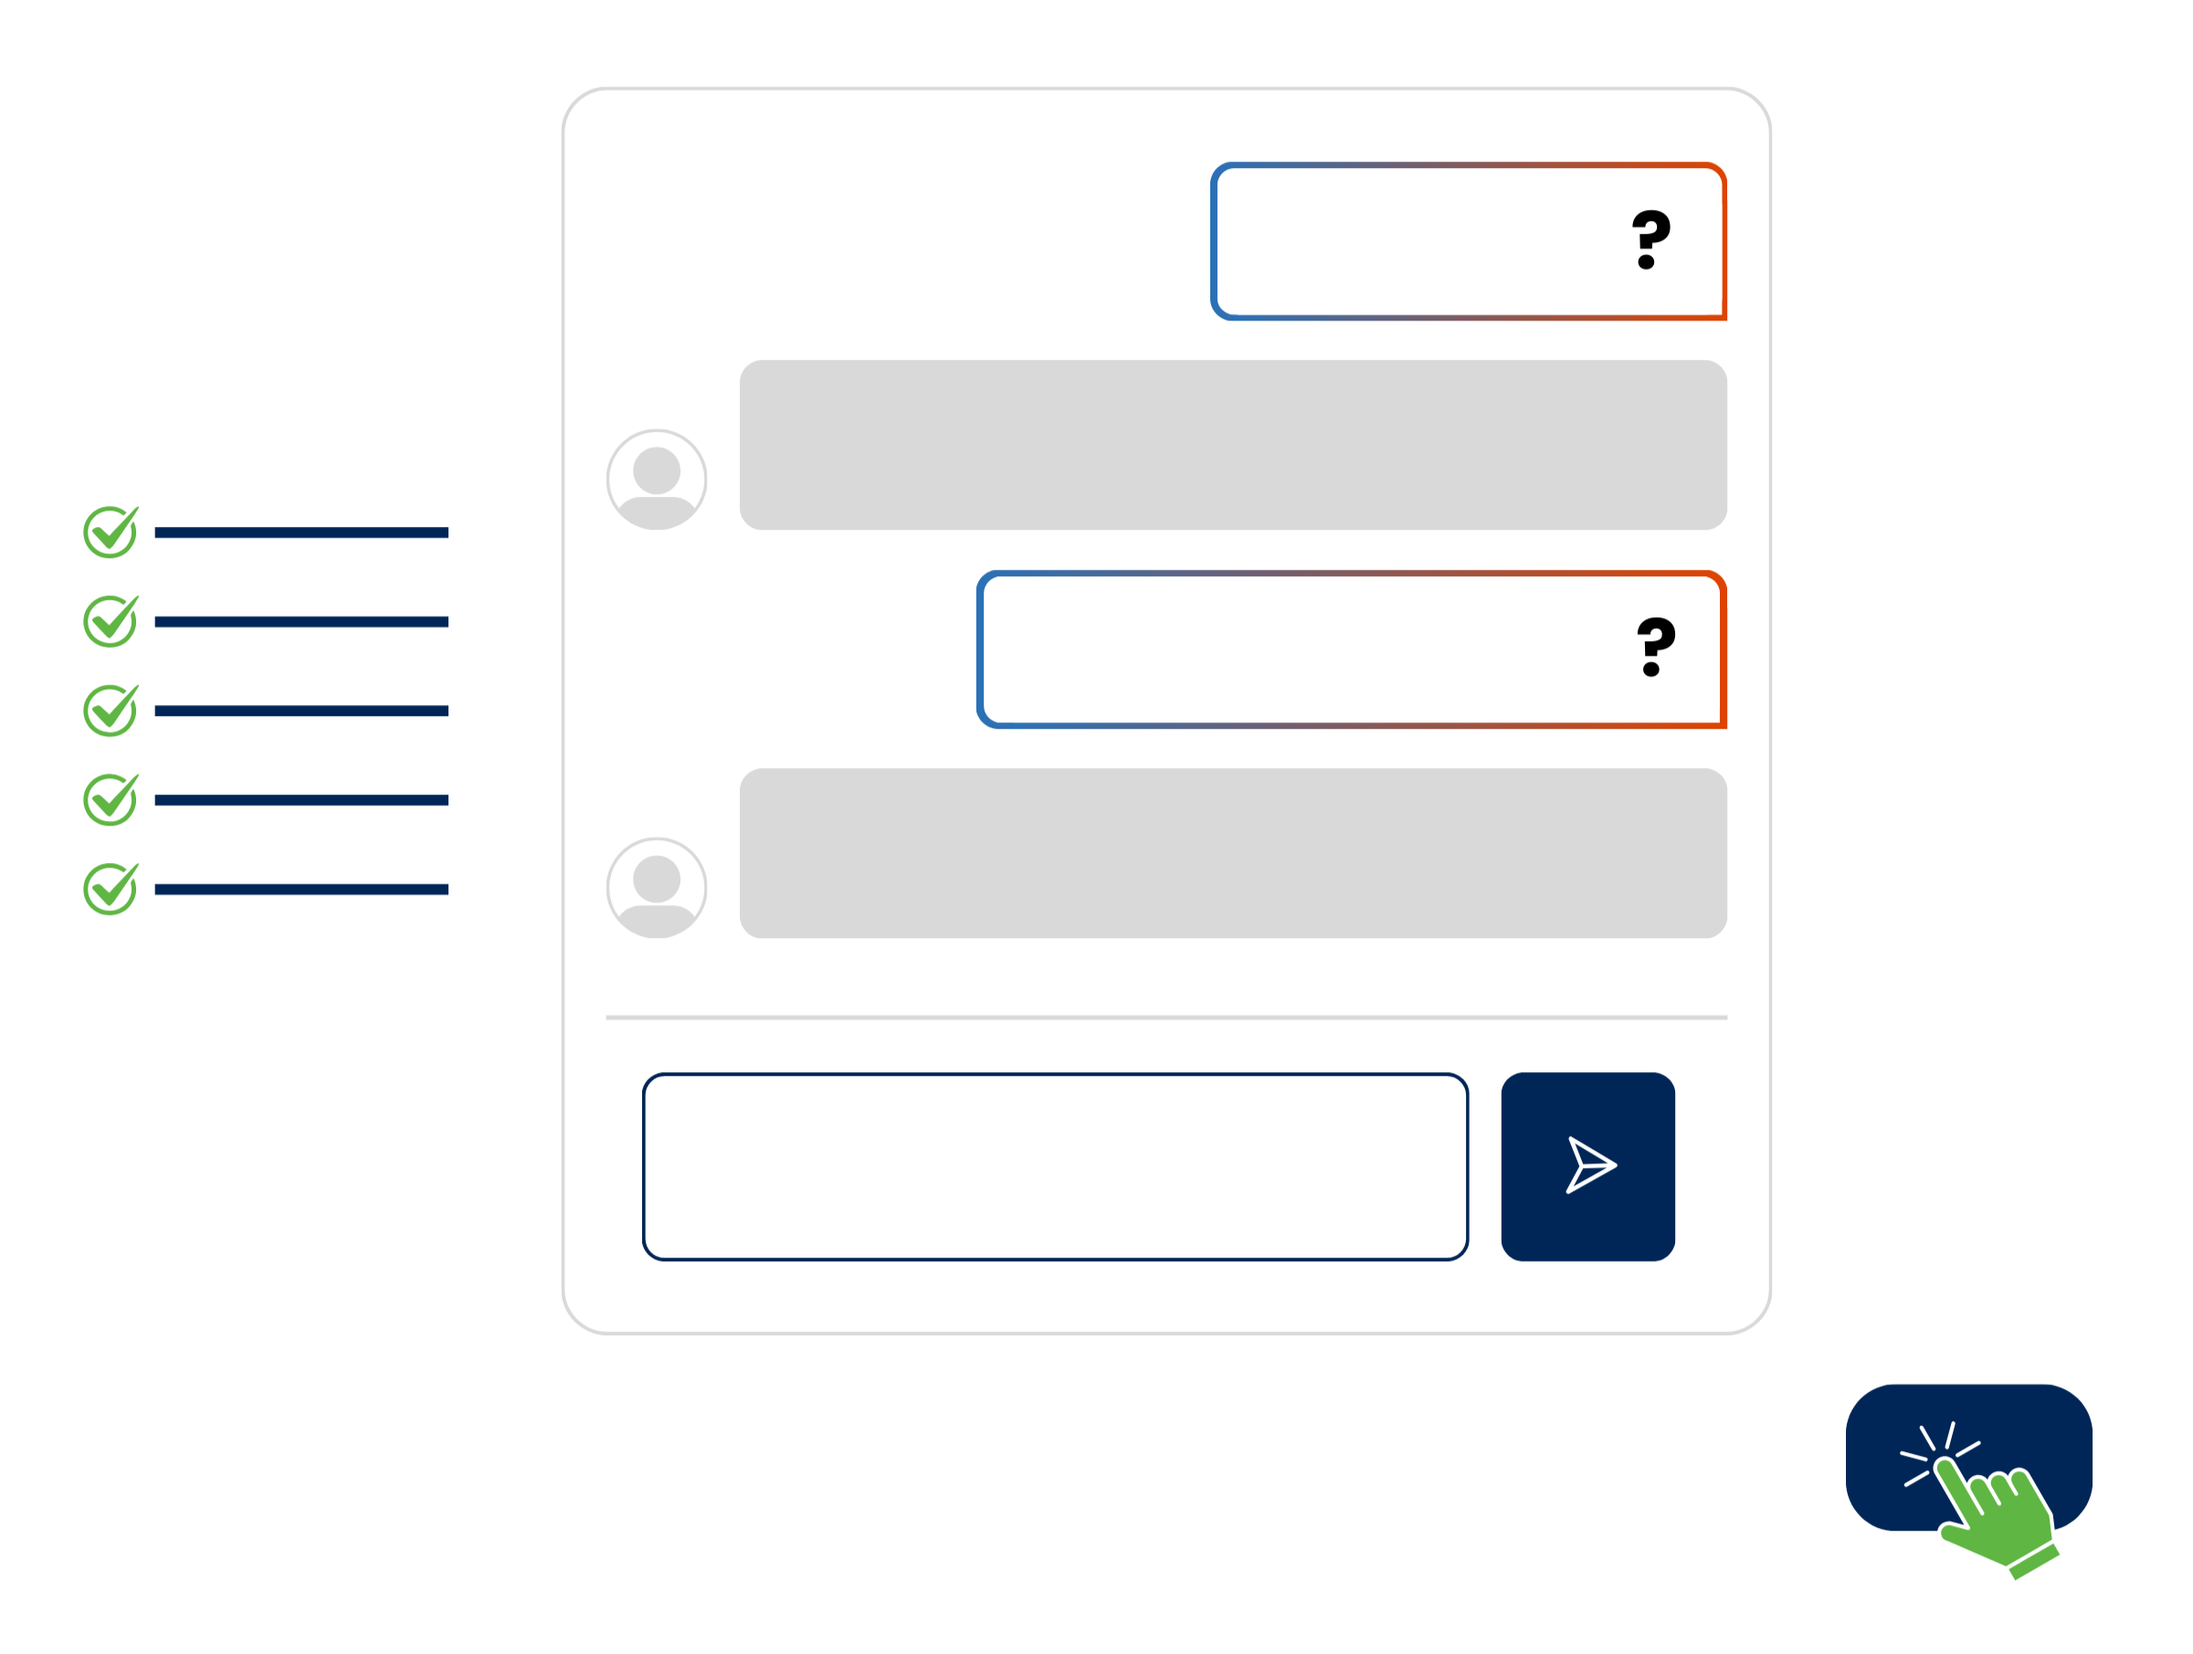
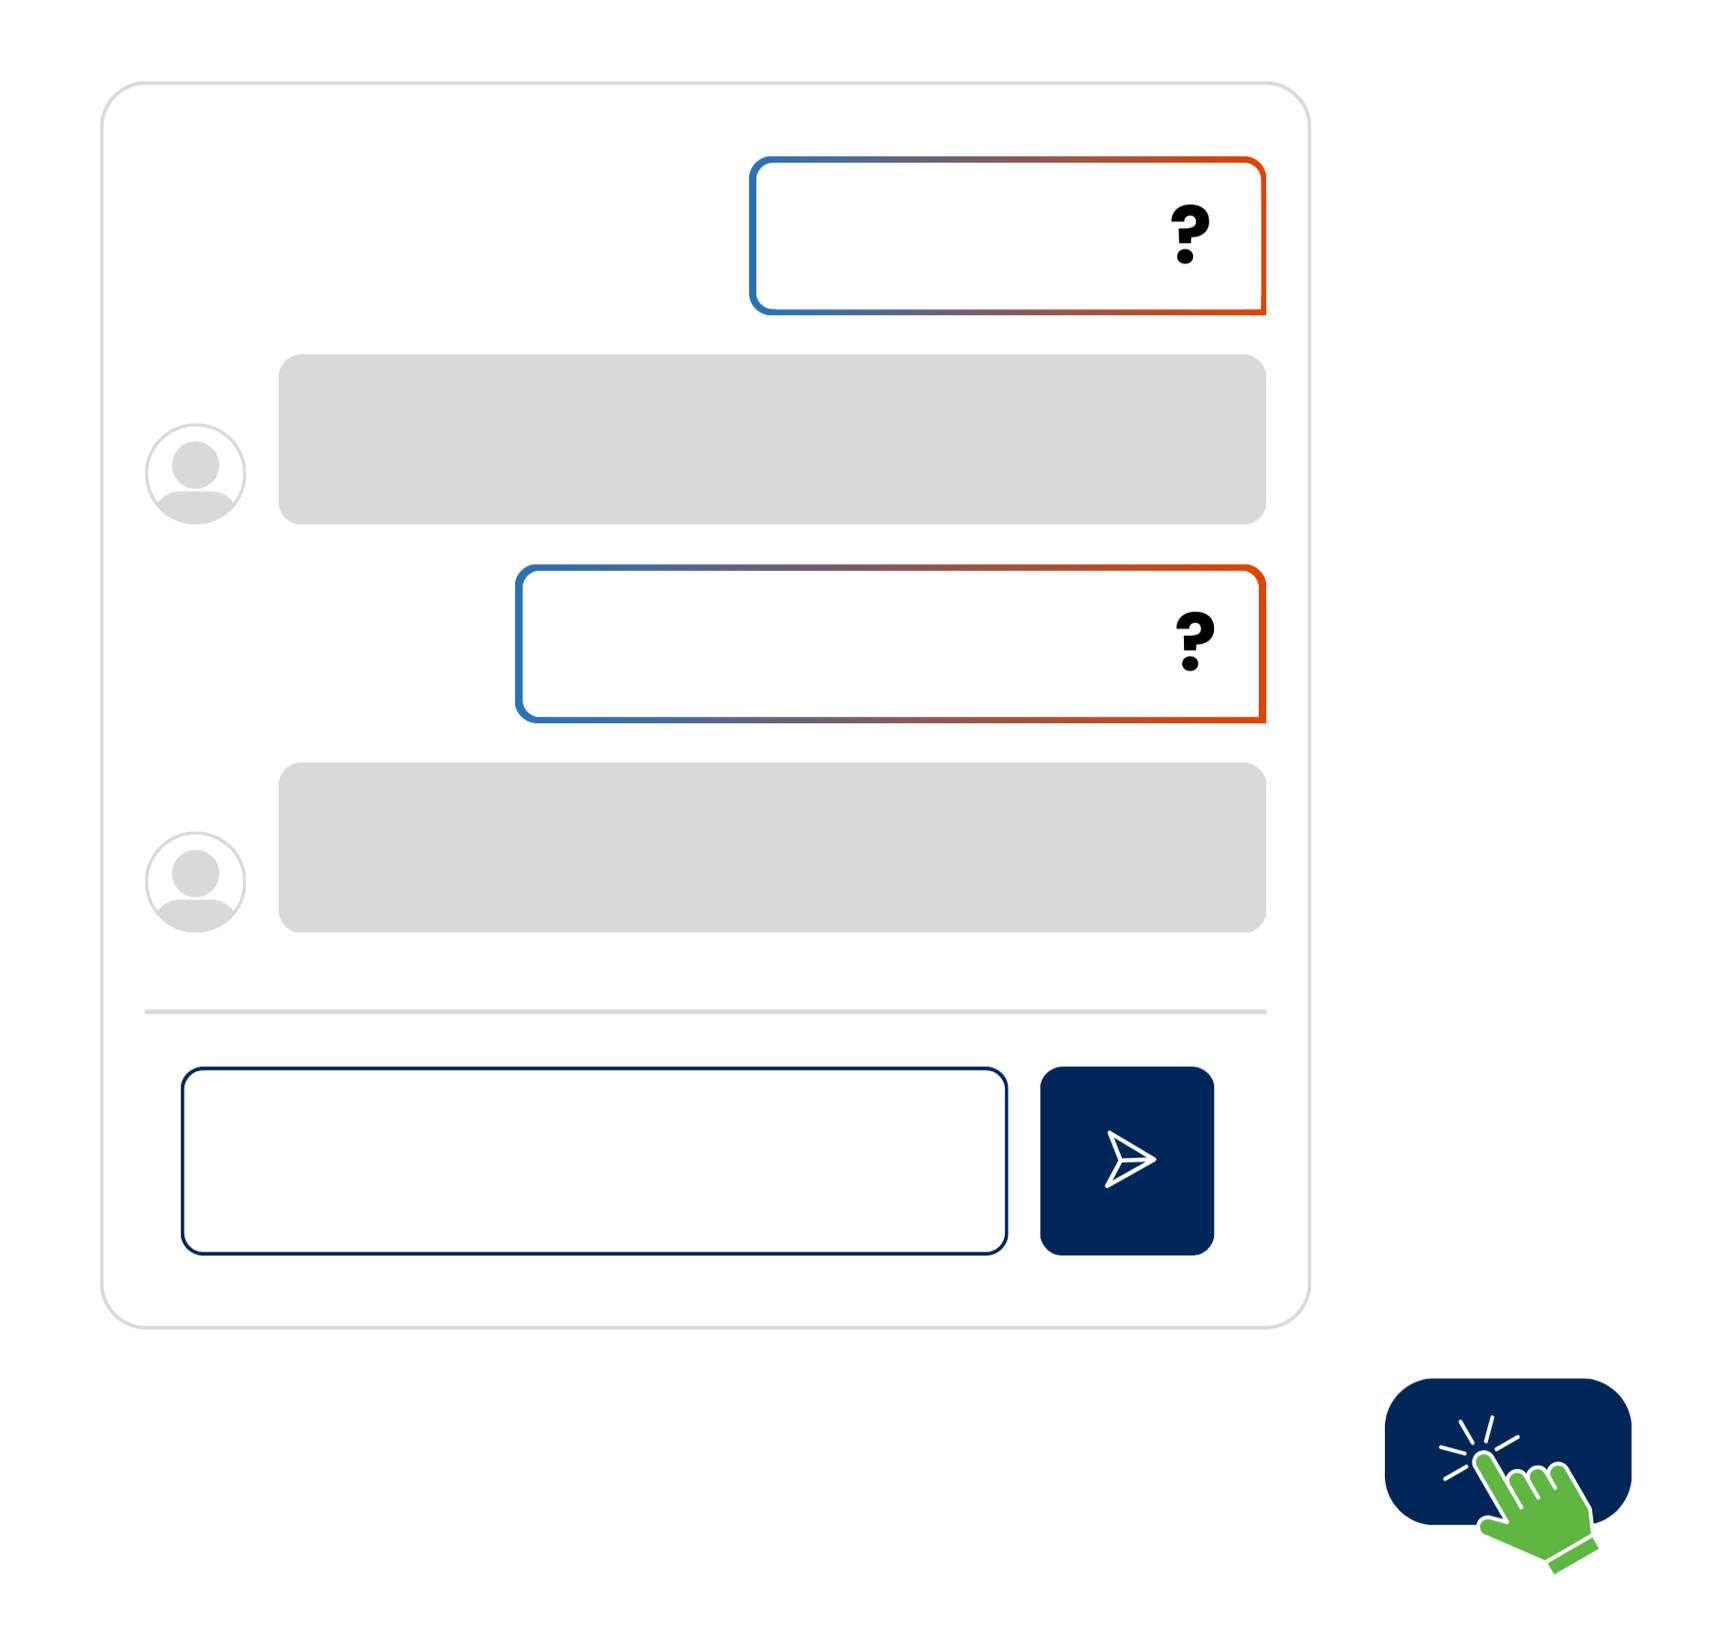
updates for ct v2 study

diff --git a/public/index.html b/public/index.html
@@ -97,8 +97,8 @@
               </div>
             </div>
             <div id="message-4">
-              <p class="info-title">💬 You must ask Alex at least 5-7 relevant questions.</p>
-              <p class="info">You may ask Alex as many questions as you'd like, but you are required to ask Alex at least <b>5 relating to the topics</b> listed to the left of the chatbox, <b>or 7 total questions</b>. Then, you will be able to <b>proceed by clicking a button at the bottom right corner of your screen</b></p>
+              <p class="info-title">💬 Alex will guide you through 5 topics.</p>
+              <p class="info">After talking through the 5 topics, <b>you may freely ask Alex questions</b>. Then, you will be able to <b>proceed by clicking a button at the bottom right corner of your screen</b></p>
               <br/>
               <img src="3.png" alt="Requirements for Conversation" height="315">
               <br/>

diff --git a/public/information.html b/public/information.html
@@ -38,7 +38,7 @@
         <div class="alex-container">
             <h3>Alex</h3>
             <h5>Virtual Assistant</h5>
-            <hr/>
+            <!-- <hr/> -->
             <div class="topics-container">
               <h5>Topics to Cover</h5>
               <p id="topic1">☐ Safety</p>

diff --git a/public/styles.css b/public/styles.css
@@ -548,7 +548,7 @@ hr {
 }
 
 .topics-container {
-  display: flex;
+  display: none;
   flex-direction: column;
   align-items: center;
 }
